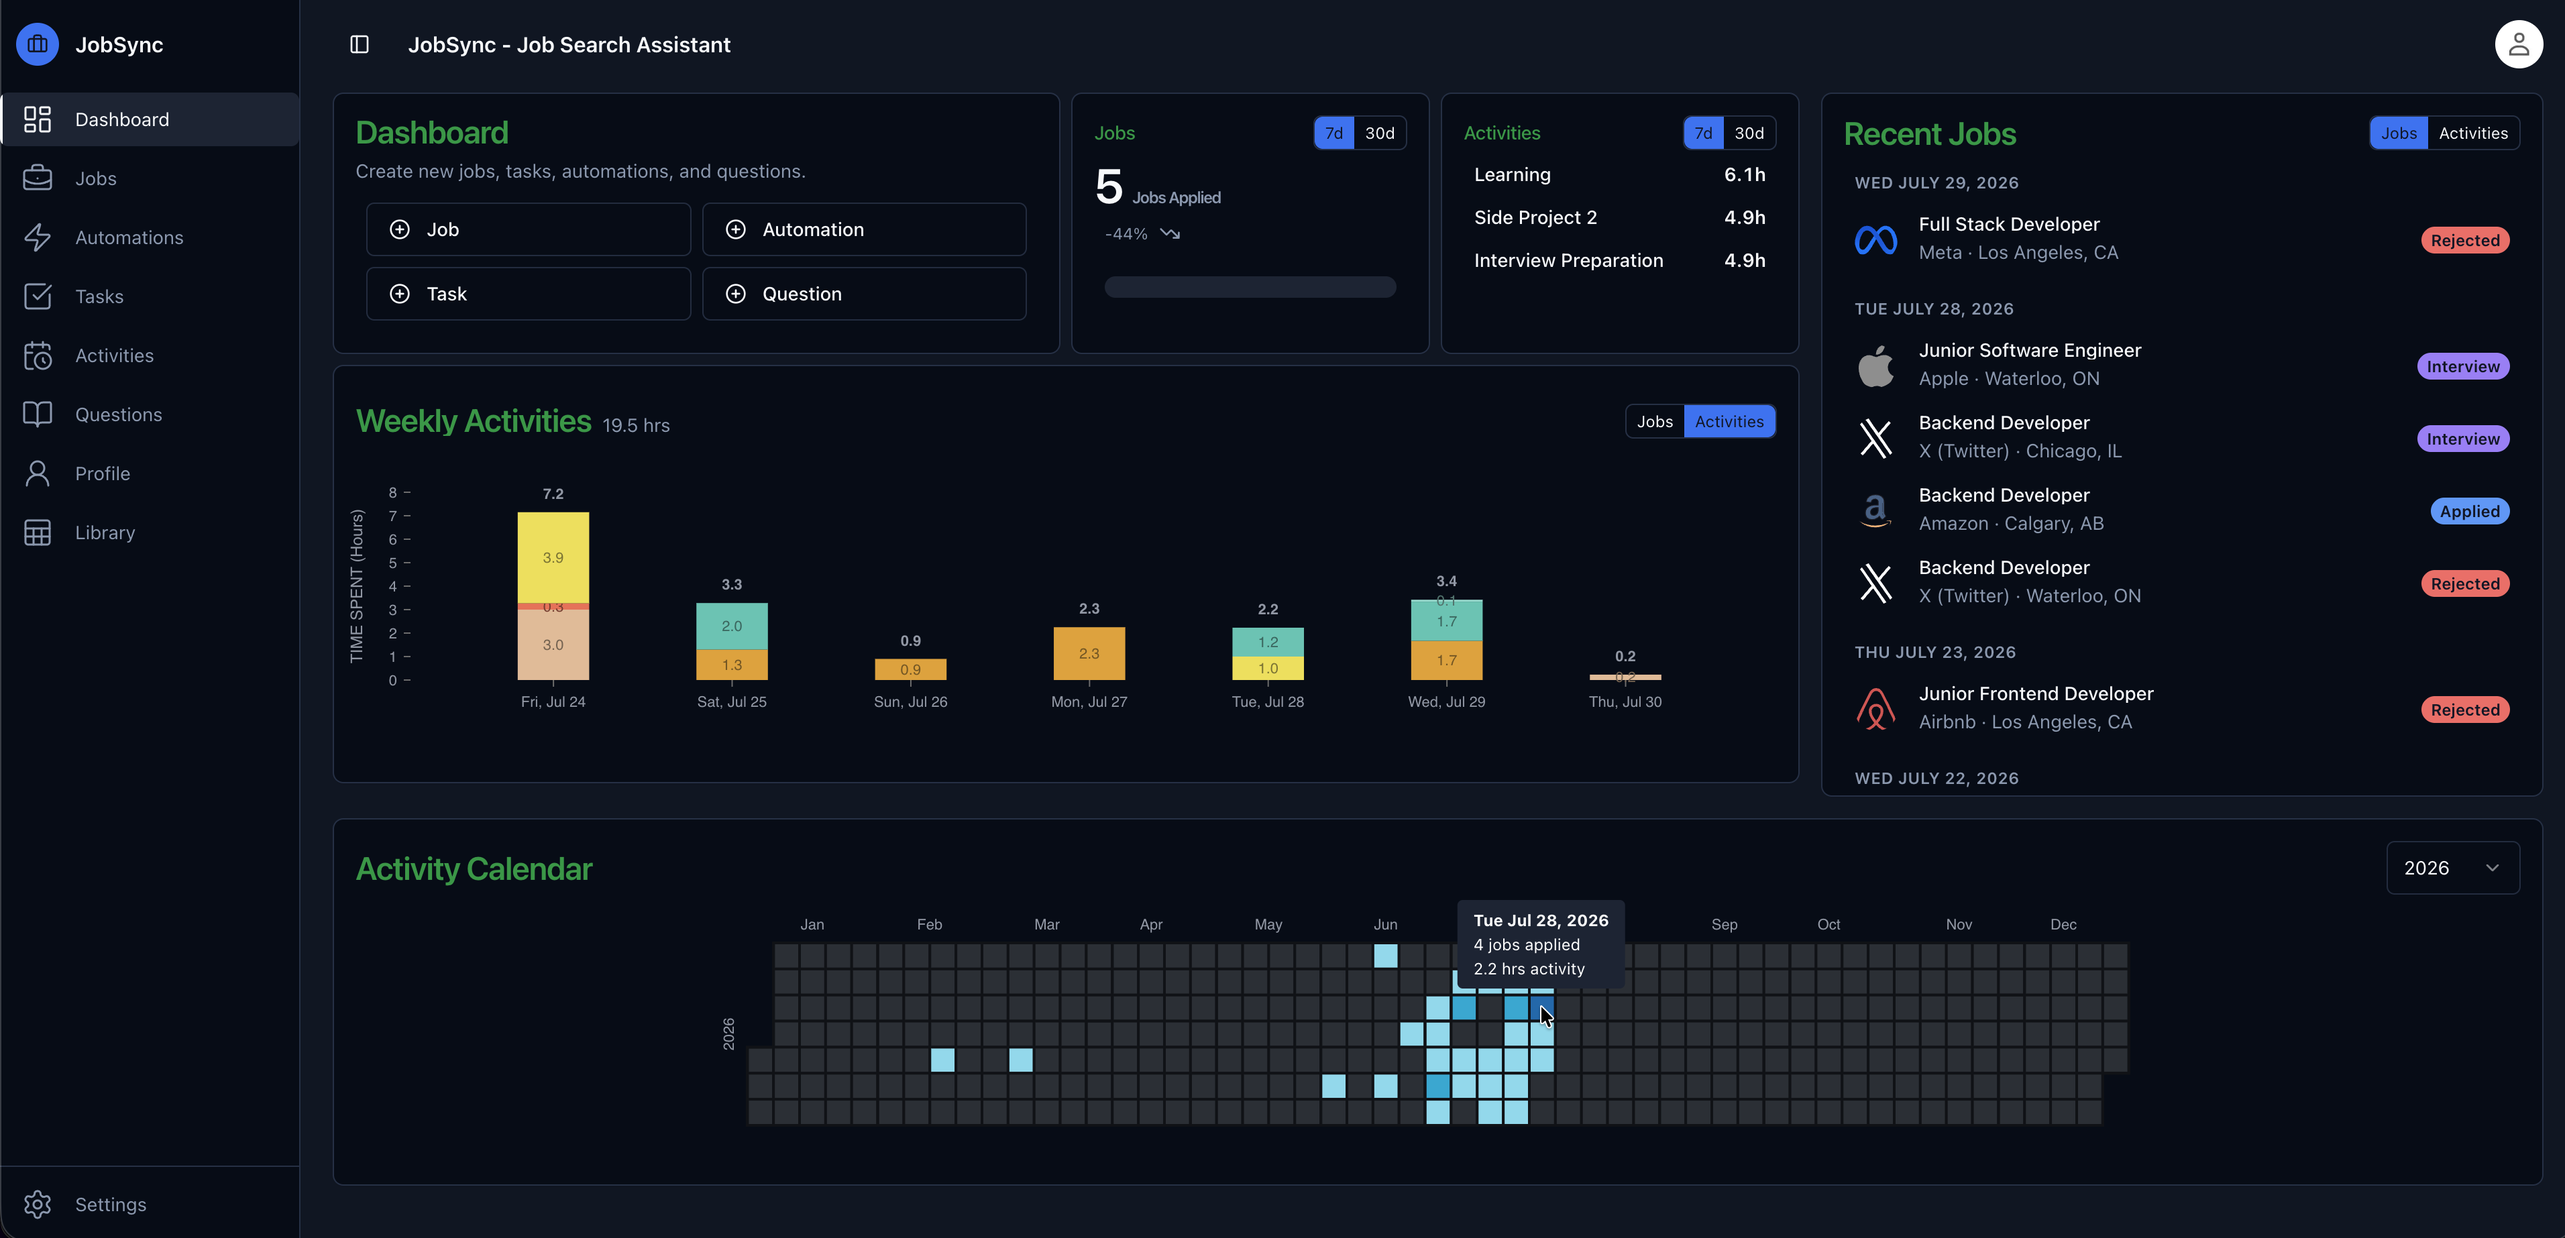
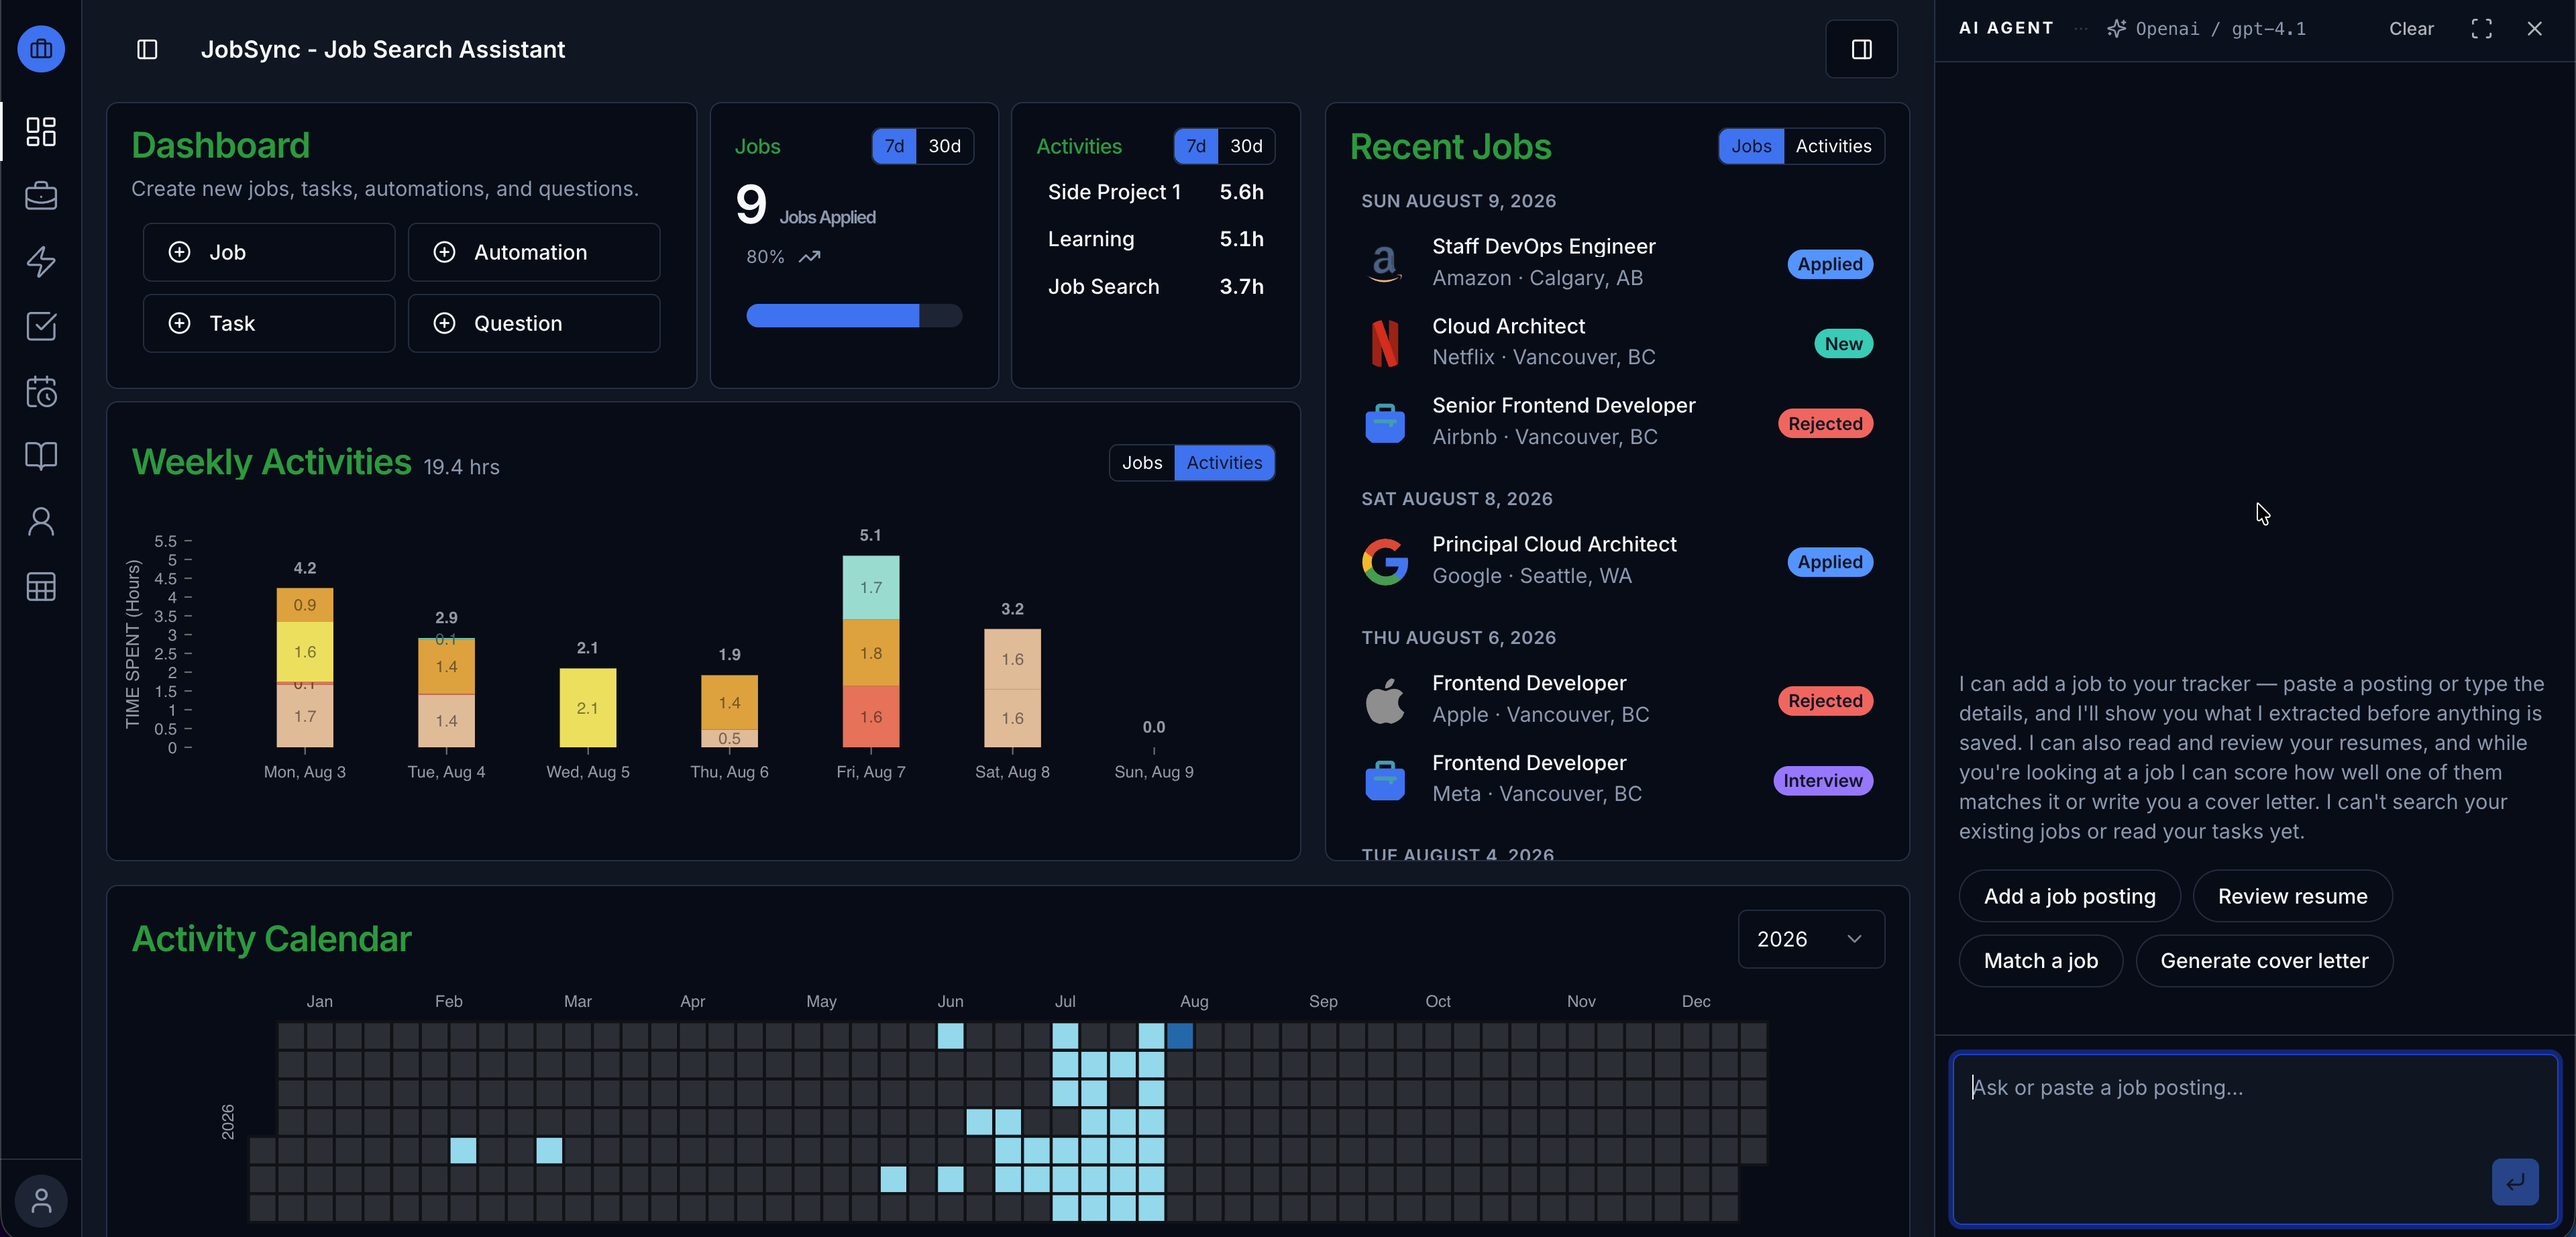
docs: update README to include AI Assistant features and improve job description handling

diff --git a/README.md b/README.md
@@ -5,6 +5,7 @@
 <p align="center">
   <a href="https://demo.jobsync.ca">Live Demo</a> ·
   <a href="#quick-start">Quick Start</a> ·
+  <a href="#ai-assistant-in-app-chat">AI Assistant</a> ·
   <a href="#mcp-server-ai-agent-integration">MCP Setup</a>
 </p>
 
@@ -14,7 +15,7 @@
   <img src="https://img.shields.io/badge/self--hosted-Docker-blue" alt="Self-hosted with Docker">
 </p>
 
-JobSync is a free, open-source companion for your job search: track applications, manage and export resumes, and run AI-powered resume reviews, job matching, generate cover letter — all self-hosted on your own server, so your data stays under your control. AI features can run entirely locally via Ollama or through your choice of cloud provider, and JobSync's built-in MCP server lets AI agents like Claude Desktop add jobs and interview questions straight from your chat.
+JobSync is a free, open-source companion for your job search: track applications, manage and export resumes, and ask a built-in AI assistant to review a resume, match it against a job, write a cover letter, or add a job from a posting you paste in — all self-hosted on your own server, so your data stays under your control. AI features can run entirely locally via Ollama or through your choice of cloud provider, and JobSync's built-in MCP server lets AI agents like Claude Desktop add jobs and interview questions straight from your chat.
 
 ![App Snapshot](./screenshots/jobsync-dashboard.png?raw=true "Jobsync dashboard")
 
@@ -31,10 +32,7 @@ JobSync is a free, open-source companion for your job search: track applications
 
 - **Task & Activity Management:** Manage tasks, track activities linked with tasks including time tracking.
 
-- **AI Assistant:** Leverage the power of AI to improve your resumes and match with jobs. Get personalized job matching with scoring to identify the best opportunities tailored to your profile, and generate a tailored cover letter from a job description and resume in one click.
-
-  ![AI Resume Review](./screenshots/jobsync-ai.gif)
-  ![AI Job Match](./screenshots/jobsync-ai-jobmatch.gif)
+- **AI Assistant:** A chat panel that stays docked beside whatever page you're on. Ask it to review a resume, score how well it matches the job you're viewing, write a tailored cover letter, or add a job straight from a posting you paste in — it asks for your confirmation before saving anything. See [Features in Detail](#ai-assistant-in-app-chat) below.
 
 - **AI Agent Integration (MCP):** Connect AI agents like Claude Desktop via a built-in MCP server to add job applications and Question Bank entries directly from your chat, with your approval. When a job description is substantial enough, the agent can also analyze it against your default resume and save a job match score right from the chat.
 
@@ -80,6 +78,28 @@ On **Windows**, run the PowerShell equivalent from the project directory instead
 >Note: If you are updating in a homelab environment, edit `NEXTAUTH_URL` in your `.env` file to use your server IP address instead of `localhost`. See `.env.example` for the expected format.
 
 ## Features in Detail
+
+### AI Assistant (In-App Chat)
+
+All of JobSync's AI features live in one place: a chat panel that docks to the side of the app instead of taking it over, so the page you were on stays visible and usable while the assistant works.
+
+Open it from the **AI Assistant** button in the header, or let the app open it for you — the **Review** button on a resume and the **Match with AI** and **Cover Letter** buttons on a job all start the matching request in the panel.
+
+What you can ask for:
+
+- **Resume review** — a full review of any of your resumes, with scores and written feedback, saved to the resume so you can come back to it.
+- **Job match** — how well one of your resumes fits the job you're currently viewing, with a match score, a recommendation, and a write-up, saved to the job. Open the job first; the assistant scores the job on the page.
+- **Cover letter** — a tailored letter for the job you're viewing, written from your resume and the job description (and any guidance from an earlier match), saved to your documents. Ask again and you get a new letter rather than losing the old one.
+- **Add a job from a posting** — paste a job posting into the chat and ask it to add the job. It picks out the company, title, location, salary, tags and the rest, and shows you all of it on a confirmation card before anything is written. The description is saved exactly as you pasted it, not as a summary. Nothing reaches your database until you press Confirm.
+
+The reviews, matches and letters are the same analyses the dedicated panels used to produce — the chat is a new way in, not a lighter-weight version.
+
+The assistant is deliberately narrow about what it can see: it reads your resumes and the single job you're looking at, and nothing else. It can't list or search your jobs, and it can't see tasks or activities. Pasted postings are also treated as untrusted text, so instructions hidden inside a posting can't make the assistant act on your data.
+
+Pick a model under **Settings > AI Settings** before using the panel — it needs one that supports tool calling, and it will tell you rather than guessing if none is set. See [known-good models](#supported-ai-model-providers) for the ones that have been tested, including a fully local option.
+
+![AI Resume Review](./screenshots/jobsync-ai.gif)
+![AI Job Match](./screenshots/jobsync-ai-jobmatch.gif)
 
 ### PDF Resume Export
 
@@ -193,7 +213,9 @@ We welcome contributions! Please read our [Contributing Guidelines](./CONTRIBUTI
 
 API keys for all cloud providers can be configured in **Settings > AI Settings** after signing in. Ollama is selected as the default provider.
 
-> **Note:** Selected models must support **structured output** for AI features to work correctly.
+> **Note:** Selected models must support **structured output** and **tool calling** for AI features to work correctly — the AI Assistant panel works by calling tools, so a model without tool support will reply with text instead of doing anything.
+
+**Known-good models.** The AI Assistant has been tested end to end with `qwen3.5:9b` on Ollama (fully local), `deepseek-v4-flash`, and OpenAI `gpt-4.1`. Other tool-calling models should work, but these are the ones exercised against the full set of assistant features.
 
 <details>
 <summary><strong>Ollama (Local)</strong></summary>
@@ -202,7 +224,7 @@ Works with [Ollama](https://ollama.com) to run AI models locally on your machine
 
 - Make sure Ollama is installed and running on the same system
 - AI settings will show a list of available models based on what you have downloaded in Ollama
-- **Recommended:** Increase the Ollama context length from the default 4k to 16k — this mainly helps automated job matching avoid truncating longer resume/job description prompts; increasing it further doesn't necessarily improve results
+- **Recommended:** Increase the Ollama context length from the default 4k to 16k — this helps automated job matching avoid truncating longer resume/job description prompts. The AI Assistant, resume review, job match and cover letter features aren't affected: they ask Ollama for the context size they need on every call, so raising this setting won't change them. Don't raise it much further either — a very large default costs you noticeably slower responses for no benefit
 - No API key required — runs entirely on your hardware
 - If you are running jobsync on a homelab server, you can expose ollama to network from Ollama settings on your local machine. Also make sure your ollama base url is pointed to your local system IP under API keys section of settings.
 
